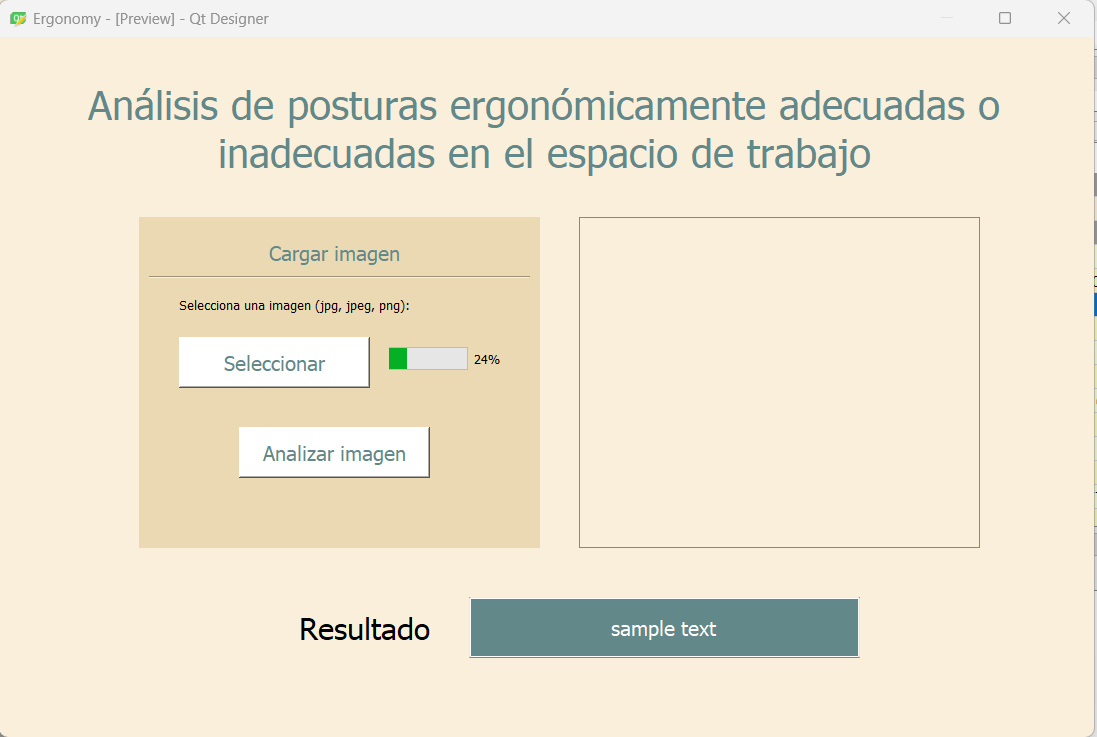
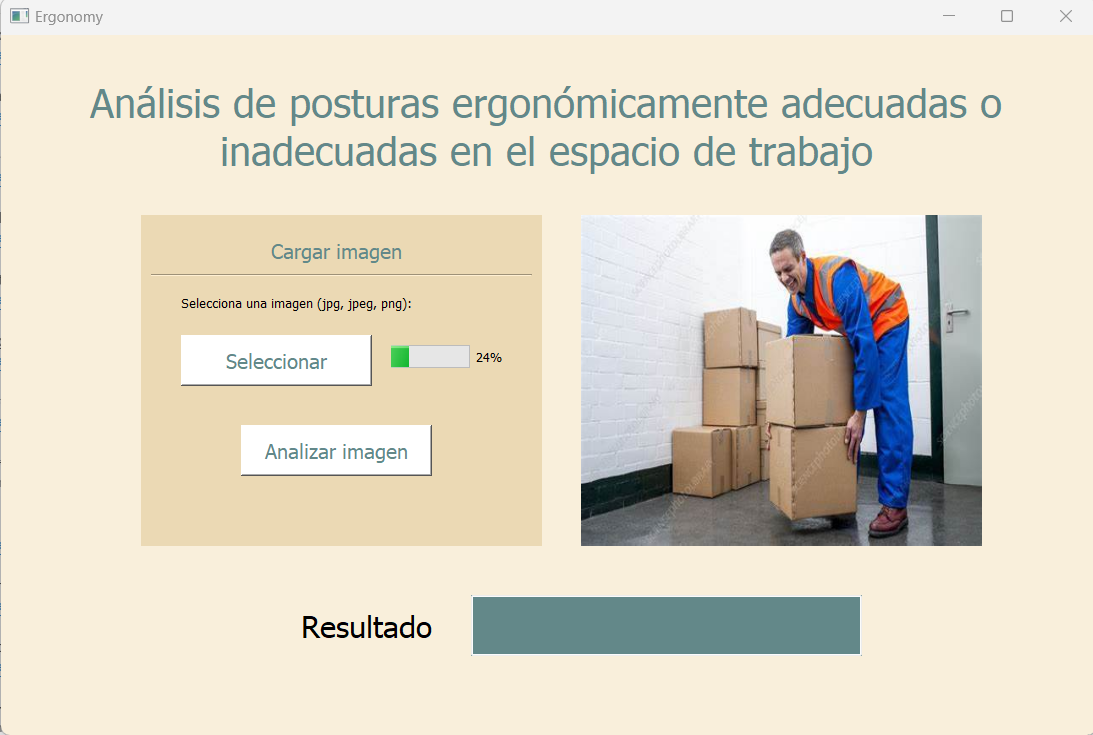
Changes

diff --git a/ergonomy.py b/ergonomy.py
@@ -1,13 +1,25 @@
 import sys
-from PyQt5 import uic
-from PyQt5.QtWidgets import QMainWindow, QApplication
+from PyQt5 import uic, QtGui
+from PyQt5.QtWidgets import QMainWindow, QApplication, QFileDialog
 
 class ergonomy_gui(QMainWindow):
     def __init__(self):
         super().__init__()
         uic.loadUi("ergonomy.ui",self)
         self.lineEdit.setEnabled(False)
+        self.pushButton_2.clicked.connect(self.seleccion_handler)
         #self.inadecuada()
+
+    def seleccion_handler(self):
+        self.d_box()
+
+    def d_box(self):
+        filename=QFileDialog.getOpenFileName()
+        path=filename[0]
+        print(path)
+        self.photo.setPixmap(QtGui.QPixmap(path))
+        self.photo.setScaledContents(True)
+
 
     def adecuada(self):
         self.lineEdit.setText("Postura adecuada")
